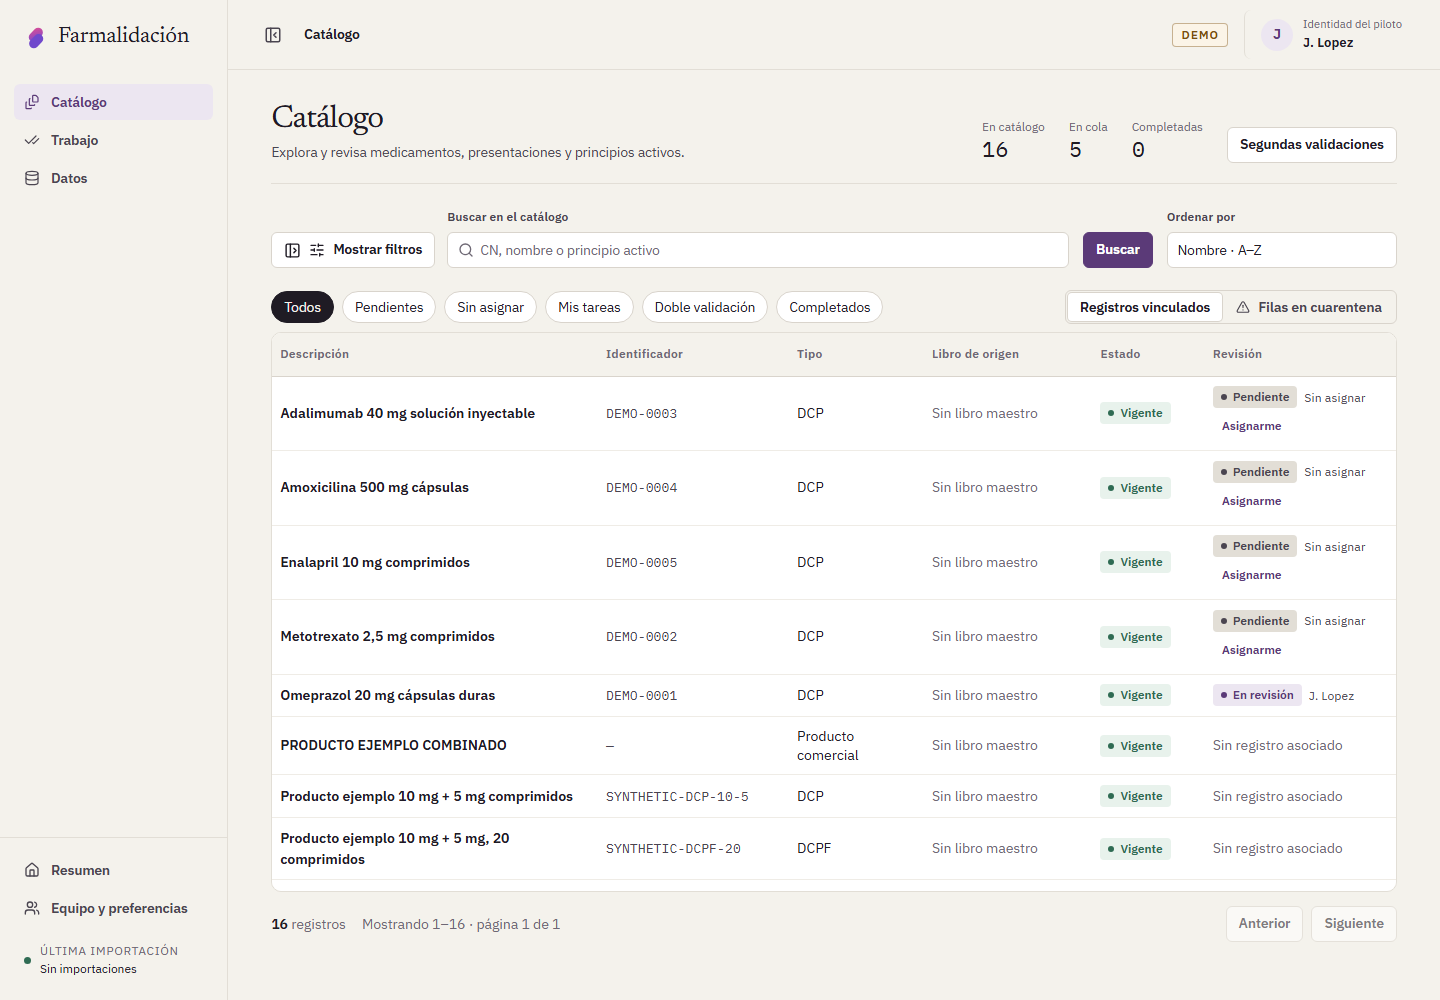
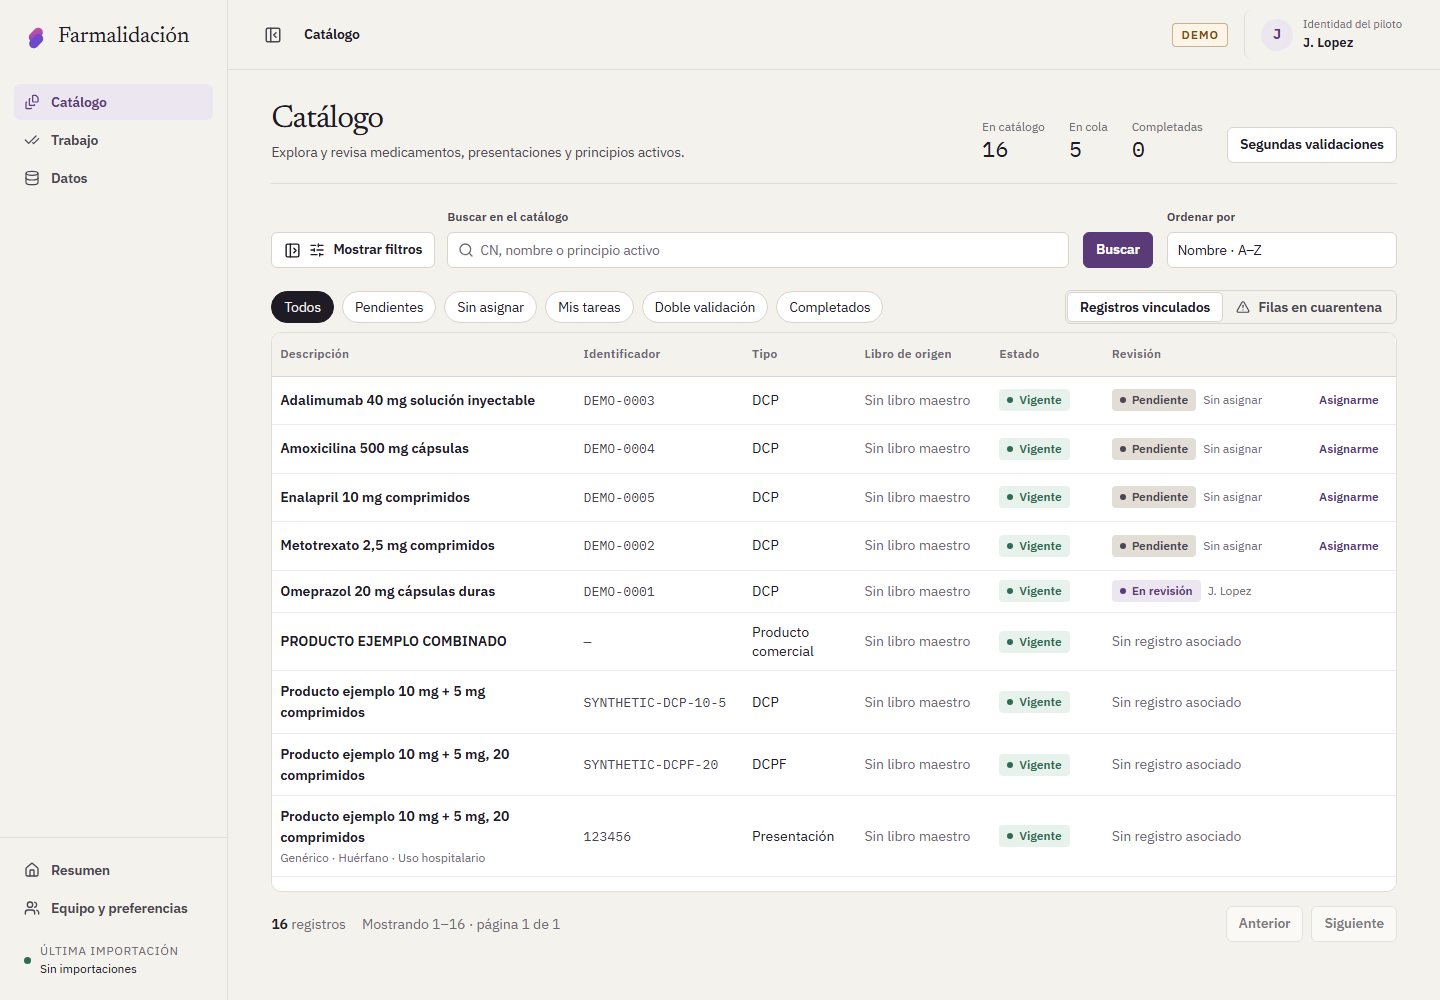
Revisión del catálogo en una línea y diálogo de expediente más ligero
En el catálogo, estado, responsable y acción de revisión comparten una
línea con la acción al final como enlace, repartiendo de nuevo el ancho
de las columnas. El diálogo del expediente titula con la letra de
títulos, muestra la posición en el listado en monoespaciada y deja
«Anterior/Siguiente» como acciones discretas junto a «Cerrar». Sombra y
fondo del diálogo pasan a tokens; los títulos de recuadro con
antetítulo («Procedencia · Valor fuente») usan la letra de títulos.

diff --git a/validador-fichas-tecnicas-repo-kit/frontend/src/ui/components.css b/validador-fichas-tecnicas-repo-kit/frontend/src/ui/components.css
@@ -282,3 +282,16 @@ code, kbd, .mono { font-family: var(--font-mono); font-size: var(--text-code); f
 .app-shell :is(.panel > h2:first-child, .panel__head h2, .panel > header h2) { font-family: var(--font-display); font-size: var(--text-xl); font-weight: var(--weight-regular); letter-spacing: -.01em; }
 .app-shell :is(.validation-overview__icon, .empty-state__icon) { display: inline-grid; place-items: center; }
 .app-shell :is(.panel > div:first-child > h2, .reviewer-management__list-head h3, .reviewer-management__list > h2, .reviewer-management__add > h3, .reviewer-management form > h3) { margin: 0; font-family: var(--font-display); font-size: var(--text-xl); font-weight: var(--weight-regular); letter-spacing: -.01em; }
+
+/* Títulos de recuadro precedidos de un antetítulo («Procedencia · Valor fuente»). */
+.app-shell .panel .eyebrow + h2 { margin-top: 2px; font-family: var(--font-display); font-size: var(--text-xl); font-weight: var(--weight-regular); letter-spacing: -.01em; }
+
+/* ── Diálogo de expediente ─────────────────────────────────────────────── */
+.record-dialog { border: 1px solid var(--line-soft); border-radius: 12px; background: var(--canvas); box-shadow: var(--shadow-dialog); }
+.record-dialog::backdrop { background: var(--backdrop); }
+.record-dialog__header { display: flex; flex-wrap: wrap; align-items: center; gap: var(--space-2) var(--space-3); border-bottom: 1px solid var(--line-soft); background: var(--canvas); }
+.record-dialog__header h2 { margin: 0 auto 0 0; font-family: var(--font-display); font-size: var(--text-xl); font-weight: var(--weight-regular); }
+.record-dialog__header nav { display: flex; gap: var(--space-1); order: 3; }
+.record-dialog__header > .muted { order: 2; font-family: var(--font-mono); font-size: var(--text-xs); }
+.record-dialog__header nav .button:not(.button--secondary) { border-color: transparent; background: transparent; }
+.record-dialog__header nav .button:not(.button--secondary):hover:not(:disabled) { background: var(--line-faint); }

diff --git a/validador-fichas-tecnicas-repo-kit/frontend/src/screens/catalog.css b/validador-fichas-tecnicas-repo-kit/frontend/src/screens/catalog.css
@@ -42,3 +42,16 @@
 .app-shell .catalog-table-scroll { border-color: var(--line-soft); border-radius: 10px; background: var(--surface); }
 .app-shell .catalog-table-scroll .table thead th { color: var(--ink-faint); font-weight: var(--weight-medium); }
 .app-shell .catalog-table-scroll .table tbody :is(th, td) { border-bottom-color: var(--line-faint); }
+
+/* Revisión en una línea: estado, responsable y acción al final. */
+.app-shell .catalog-col-name { width: 27%; }
+.app-shell .catalog-col-code { width: 15%; }
+.app-shell .catalog-col-type { width: 10%; }
+.app-shell .catalog-col-source { width: 12%; }
+.app-shell .catalog-col-status { width: 10%; }
+.app-shell .catalog-col-review { width: 26%; }
+.app-shell .catalog-review-cell__content { flex-wrap: nowrap; justify-content: space-between; gap: var(--space-2); }
+.app-shell .catalog-review-cell__assignment { min-width: 0; overflow: hidden; }
+.app-shell .catalog-review-cell__assignee { overflow: hidden; color: var(--ink-faint); font-size: var(--text-xs); text-overflow: ellipsis; }
+.app-shell .catalog-table-scroll .catalog-review-cell .button { flex: none; border-color: transparent; color: var(--accent-strong); background: transparent; }
+.app-shell .catalog-table-scroll .catalog-review-cell .button:hover:not(:disabled) { background: var(--accent-soft); }

diff --git a/validador-fichas-tecnicas-repo-kit/frontend/src/ui/tokens.css b/validador-fichas-tecnicas-repo-kit/frontend/src/ui/tokens.css
@@ -70,6 +70,8 @@
   --shadow: 0 1px 2px rgb(32 25 42 / 4%);
   --shadow-hover: 0 8px 22px rgb(55 35 62 / 8%);
   --shadow-raised: 0 1px 2px rgb(0 0 0 / 6%);
+  --shadow-dialog: 0 24px 64px rgb(20 16 26 / 22%);
+  --backdrop: rgb(20 16 26 / 45%);
 
   /* Espacio */
   --space-1: .25rem;
@@ -135,6 +137,8 @@
   --info: #a5c9f4;
   --info-soft: #202f45;
   --shadow: 0 2px 12px rgb(0 0 0 / 16%);
+  --shadow-dialog: 0 24px 64px rgb(0 0 0 / 45%);
+  --backdrop: rgb(3 3 8 / 72%);
   --scrollbar-thumb: #777080;
   --scrollbar-thumb-hover: #a79aac;
   color-scheme: dark;
